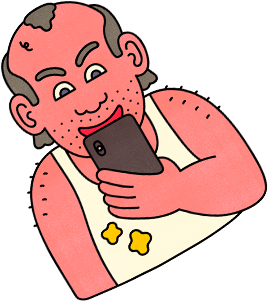
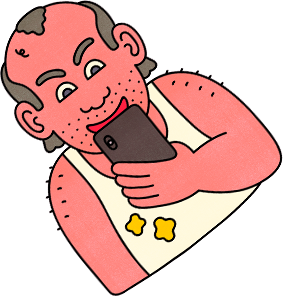
timing for header animation

diff --git a/src/sass/partials/_header.scss b/src/sass/partials/_header.scss
@@ -62,7 +62,7 @@
     right: 0;
     bottom: 0;
     margin: auto;
-    max-height: 86%;
+    max-height: 100%;
     z-index: 2;
     transition: transform 0.3s linear;
     transform-origin: bottom center;
@@ -78,23 +78,19 @@
 
 @keyframes left {
     0%, 100% {
-        left: 0;
-        top: 10%;
+        transform: translate(0, 0);
     }
-    70%, 80% {
-        top: -40%;
-        left: -40%;
+    60%, 70% {
+        transform: translate(-30%, -40%);
     }
 }
 
 @keyframes right {
     0%, 100% {
-        left: 0;
-        top: 10%;
+        transform: rotateY(180deg) translate(0, 0);
     }
-    70%, 80% {
-        top: -40%;
-        left: 40%;
+    60%, 70% {
+        transform: rotateY(180deg) translate(-30%, -40%);
     }
 }
 
@@ -105,7 +101,7 @@
     right: 0;
     bottom: 0;
     margin: auto;
-    max-height: 55%;
+    max-height: 60%;
 
     .is-left & {
         animation: left linear 1s 1;

diff --git a/src/js/modules/header.js b/src/js/modules/header.js
@@ -1,4 +1,4 @@
-const animationLength = 1000;
+const animationLength = 1002;
 const ranges = {
     'mobile': [0, 1, 5, 6, 7, 8, 9, 13, 14, 15, 16, 17, 18, 19, 20, 21],
     'desktop': [0, 1, 2, 9, 10, 11, 12, 13, 14, 18, 19, 20, 21, 22, 23],
@@ -16,7 +16,7 @@ export default {
 
     bindings: function() {
         $(window).resize(function() {
-            this
+            this.defineWidth();
         }.bind(this));
     },
 
